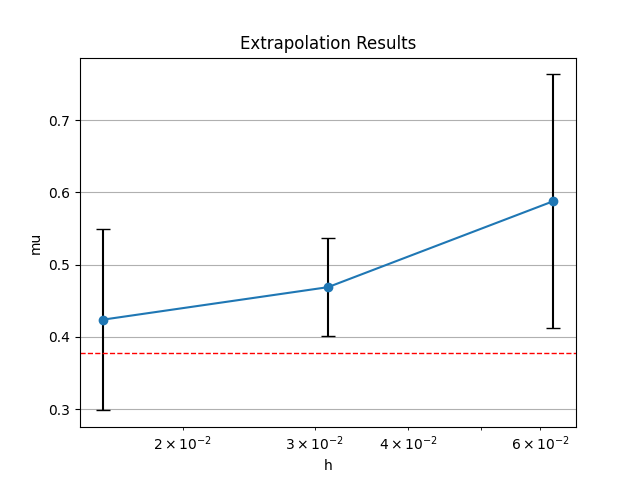
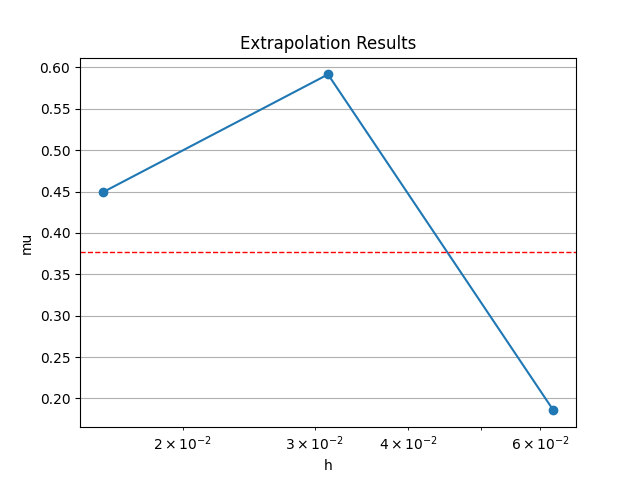
Enabled use of MRE with parameter file (with default basis)

diff --git a/src/models.py b/src/models.py
@@ -383,14 +383,18 @@ class Model:
                 options["plot_filename"] = new_filepath
             
             out = extrapolation(X*h, Y, options)
-            print(f"Predict f(0) = {out['mu'][0]} +/- {np.sqrt(out['var'][0][0])}\n")
-            
-            extrapolation_results.extend([out['mu'][0], out['var'][0][0]])
 
-            # Append results for each point
-            extrapolation_results.extend(out['mu_cv'])
-            extrapolation_results.extend(out['var_cv'])
-        
+            if self.extrapolation_name != "MRE":
+                print(f"Predict f(0) = {out['mu'][0]} +/- {np.sqrt(out['var'][0][0])}\n")
+                extrapolation_results.extend([out['mu'][0], out['var'][0][0]])
+                # Append results for each point
+                extrapolation_results.extend(out['mu_cv'])
+                extrapolation_results.extend(out['var_cv'])
+            else:
+                # No variances or cross validation to record for MRE
+                print(f"Predict f(0) = {out['mu'][0]}\n")
+                extrapolation_results.extend([out['mu'][0]])                      
+            
             # Create table of SPRE results
             if i == 0:
                 all_extrapolation_results = np.matrix(extrapolation_results)
@@ -431,8 +435,11 @@ class Model:
             else:
                 header = [f"h{i+1}" for i in range(len(h))]
 
-            header += ["mu", "var"] + [f"mu_cv{n}" for n in range(1, number_of_x + 1)] + [f"var_cv{n}" for n in range(1, number_of_x + 1)]
-  
+            if self.extrapolation_name != "MRE":
+                header += ["mu", "var"] + [f"mu_cv{n}" for n in range(1, number_of_x + 1)] + [f"var_cv{n}" for n in range(1, number_of_x + 1)]
+            else:
+                header += ["mu"]
+
             # Create DataFrame
             self.df_all_extrapolation_results = pd.DataFrame(all_extrapolation_results, columns=header)
 
@@ -534,15 +541,18 @@ class Model:
             None                
         """
 
-        # Calculate error bars (standard deviation = sqrt(var))
-        errors = np.sqrt(self.df_all_extrapolation_results["var"])
-
         h_col = self.choose_h_column(self.df_all_extrapolation_results)
 
         # Plot with error bars
         plt.close('all') 
         plt.figure()
-        plt.errorbar(self.df_all_extrapolation_results[h_col], self.df_all_extrapolation_results["mu"], yerr=errors, fmt='o-', capsize=5, ecolor='black', markersize=6)
+        # Calculate error bars (standard deviation = sqrt(var))
+        if "var" in self.df_all_extrapolation_results:            
+            errors = np.sqrt(self.df_all_extrapolation_results["var"])
+            plt.errorbar(self.df_all_extrapolation_results[h_col], self.df_all_extrapolation_results["mu"], yerr=errors, fmt='o-', capsize=5, ecolor='black', markersize=6)
+        else:
+            plt.plot(self.df_all_extrapolation_results[h_col], self.df_all_extrapolation_results["mu"], 'o-', markersize=6)
+
         plt.xlabel("h")
         plt.ylabel("mu")
         plt.xscale('log')
@@ -634,7 +644,7 @@ class Model:
             plt.close('all') 
             plt.figure()
             plt.plot(x_vals, df_abs["abs_err_first_estimate"], marker='o', linestyle='solid', linewidth=2, markersize=12, label="first estimate")
-            plt.plot(x_vals, df_abs["abs_err_spre_estimate"], marker='o', linestyle='solid', linewidth=2, markersize=12, label="SPRE estimate")
+            plt.plot(x_vals, df_abs["abs_err_spre_estimate"], marker='o', linestyle='solid', linewidth=2, markersize=12, label=f"{self.extrapolation_name} estimate")
             plt.xscale('log')
             plt.yscale('log')
             plt.xlabel(x_lab)

diff --git a/src/sparse_pre/extrapolation.py b/src/sparse_pre/extrapolation.py
@@ -19,6 +19,7 @@ config.update("jax_enable_x64", True)
 
 # Application modules
 from sparse_pre.SPRE import SPRE
+import sparse_pre.MRE as MRE
 
 def extrapolation(X, Y, options = None):
     """
@@ -59,25 +60,30 @@ def extrapolation(X, Y, options = None):
     elif name == "GRE":
         spre = SPRE(k_name, X.shape[1], jnp.zeros((1, X.shape[1]), dtype=int))
     elif name == "MRE":
-        raise NotImplementedError("MRE extrapolation is not implemented yet.")
+        #raise NotImplementedError("MRE extrapolation is not implemented yet.")
+        pass
     else:
         raise ValueError(f"Unknown extrapolation method: {name}")
     
-    # Set data
-    spre.set_normalised_data(X, Y)
-
     # Select extrapolation method
     if name == "SPRE" or name == "GRE":
+        # Set data
+        spre.set_normalised_data(X, Y)
+        # Do fitting
         out = spre.stepwise_selection()
+       
     elif name == "MRE":
-        raise NotImplementedError("MRE extrapolation is not implemented yet.")
+        #raise NotImplementedError("MRE extrapolation is not implemented yet.")
+        # Use default basis
+        out = MRE.MRE(None, X, Y)
     else:
         raise ValueError(f"Unknown extrapolation method: {name}")
 
-    errors = jnp.sqrt(out["var_cv"])
- 
     # Plot LOOCV fit if applicable
     if (plot or plot_filename) and name != "MRE" and "mu_cv" in out and "var_cv" in out:
+        # Set errors
+        errors = jnp.sqrt(out["var_cv"])
+
         n_train = X.shape[0]
         plt.close('all') 
         plt.figure()

diff --git a/src/sparse_pre/MRE.py b/src/sparse_pre/MRE.py
@@ -17,7 +17,7 @@ config.update("jax_enable_x64", True)
 # Application modules
 from sparse_pre.helper_functions import x2fx
 
-def MRE(A, X, Y):
+def MRE(A : jnp.ndarray, X : jnp.ndarray, Y : jnp.ndarray) -> jnp.ndarray:
     """
     Multivariate Richardson Extrapolation.
 
@@ -33,6 +33,13 @@ def MRE(A, X, Y):
         float
            'mu', the predicted f(0)
     """
+    
+    # Create default basis if not defined
+    if A is None:
+        _, d = X.shape
+        A = jnp.zeros((1,d))
+        A = jnp.vstack((A, jnp.eye(d)))
+
     m, d = A.shape
 
     # Ensure Y is a flat 1D array
@@ -62,4 +69,13 @@ def MRE(A, X, Y):
     coeffs = jnp.linalg.lstsq(V, Yn, rcond=None)[0]
     mu = nY * eval @ coeffs
 
-    return mu
+    # Return the same format as SPRE although most values are not given
+    out = {
+                "mu": mu,
+                "var": None,  
+                "cv": None,         
+                "mu_cv": None,
+                "var_cv": None            
+            }
+    
+    return out
